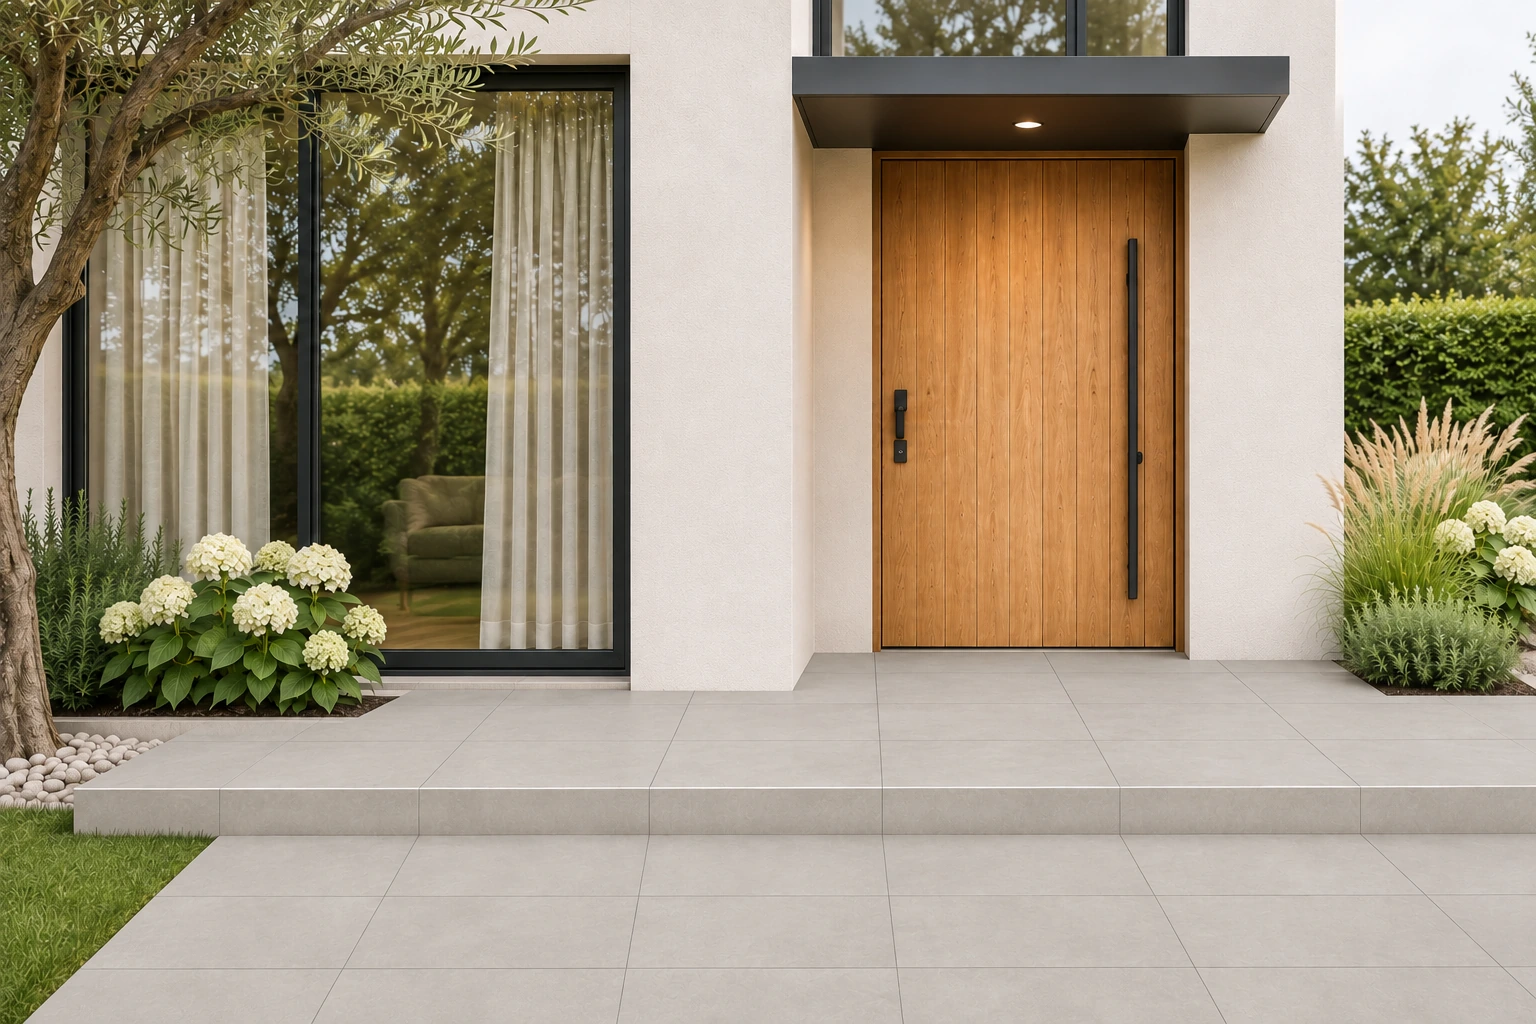
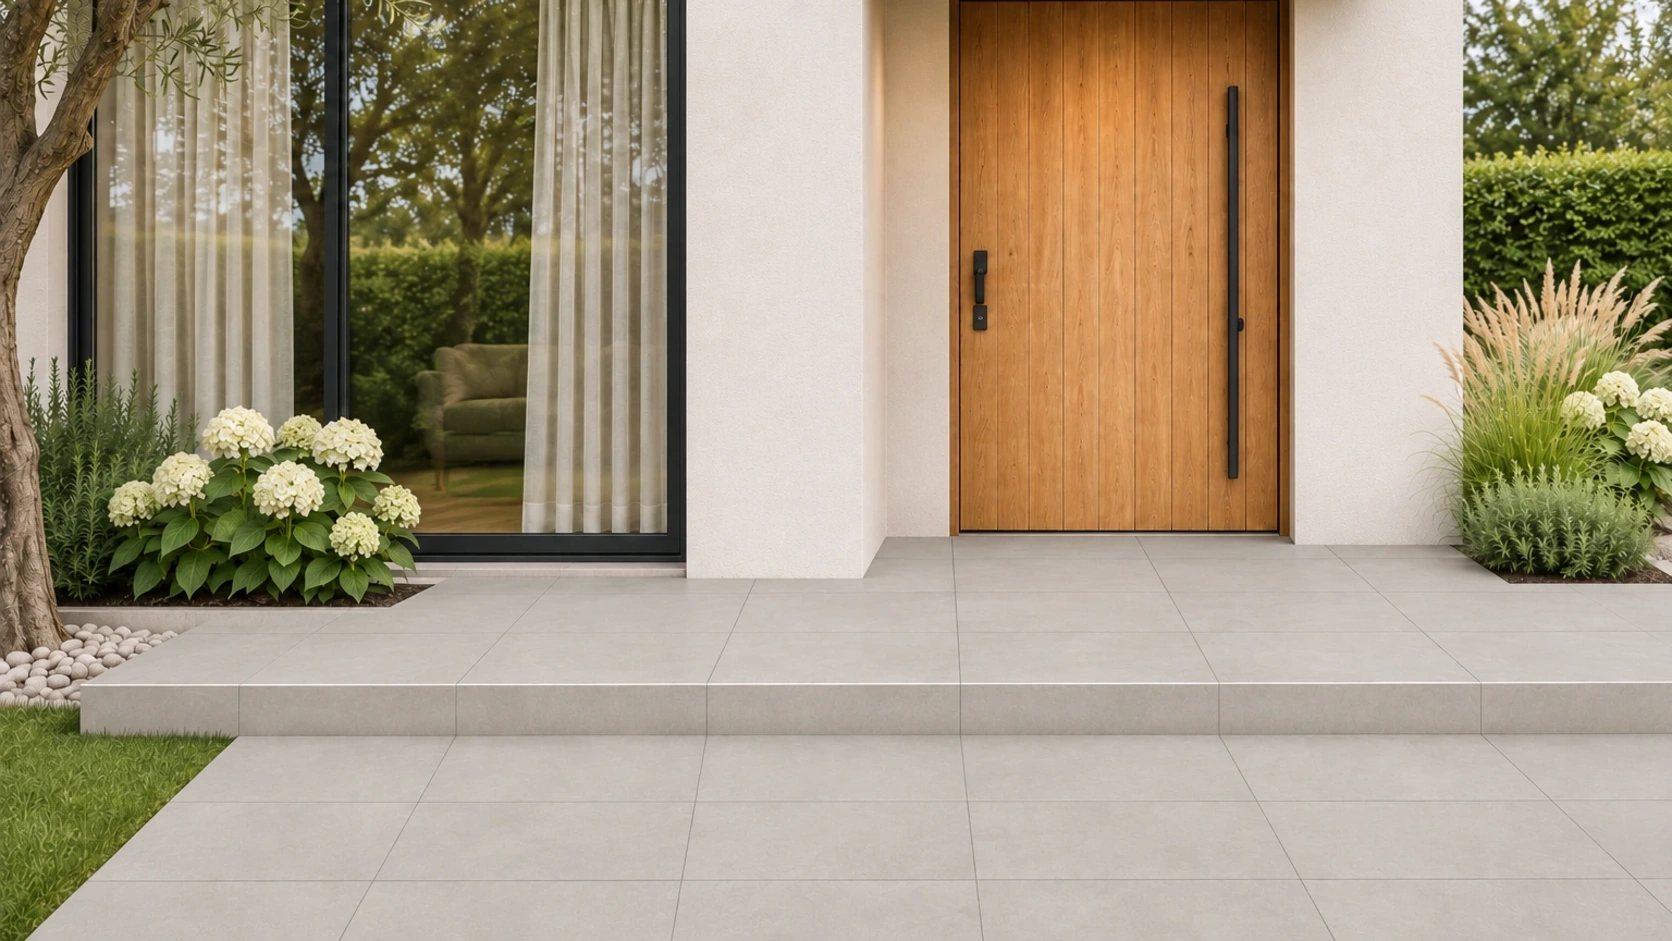
Raumansichten auf gemeinsames Badformat vereinheitlichen

diff --git a/studio/studio.css b/studio/studio.css
@@ -1,11 +1,11 @@
 @font-face{font-family:Archivo;src:url('../schrift/archivo.woff2');font-display:swap}
 *{box-sizing:border-box}[hidden]{display:none!important}:root{font-family:Archivo,Arial,sans-serif;background:#f1f3f2;color:#2a302e;font-synthesis:none}body{margin:0;-webkit-font-smoothing:antialiased}a{color:inherit;text-underline-offset:5px}button,input,select{font:inherit}button,a,input,select{-webkit-tap-highlight-color:transparent}button{cursor:pointer}button:disabled{opacity:.5;cursor:wait}button:focus-visible,a:focus-visible,input:focus-visible,select:focus-visible,summary:focus-visible{outline:2px solid #8c9c82;outline-offset:4px}.skip{position:absolute;left:16px;top:-80px;z-index:10;padding:12px;background:#fffefb}.skip:focus{top:12px}.sr-only{position:absolute;width:1px;height:1px;overflow:hidden;clip:rect(0,0,0,0);white-space:nowrap}
 .studio-header{height:88px;display:flex;align-items:center;gap:32px;padding-inline:max(32px,calc((100% - 1640px)/2));background:#262922;color:#f0f3eb}.brand{flex:none;display:block}.brand img{display:block;width:142px;height:auto}.home-link{font-size:13px;text-decoration:none;border-bottom:1px solid #72836e;padding:12px 0}.studio-title{font-size:10px;letter-spacing:.2em;margin-left:auto;color:#bdc9b6}.basket{display:flex;align-items:center;gap:9px;min-height:44px;font-size:13px;text-decoration:none}.basket>span{display:grid;place-items:center;min-width:24px;height:24px;background:#eff3eb;color:#344c3a;border-radius:50%}.room-nav{display:flex;align-items:center;justify-content:center;gap:8px;min-height:66px;padding:9px 20px;border-bottom:1px solid #d8dfd9;background:#fffefb}.room-nav a{display:flex;align-items:center;justify-content:center;gap:10px;min-height:44px;padding:10px 22px;text-decoration:none;font-size:14px;border-radius:4px;white-space:nowrap}.room-nav a::before{content:'';height:4px;width:4px;border-radius:50%;background:#b1beb4}.room-nav a:hover{background:#edf2ed}.room-nav a[aria-current=page]{color:#f0f3eb;background:#344c3a}.room-nav a[aria-current=page]::before{background:#d9e7d3}
-.workspace{width:min(1704px,100%);height:calc(100svh - 154px);min-height:560px;margin:0 auto;display:grid;grid-template-columns:minmax(0,1fr) 380px}.scene{padding:34px 40px 24px;display:flex;flex-direction:column;min-width:0;min-height:0}.scene-heading{display:flex;justify-content:space-between;align-items:center;gap:20px;margin-bottom:24px}.eyebrow{font-size:10px;letter-spacing:.14em;color:#617066;font-weight:400;margin:0 0 12px}h1,h2{font-weight:400;letter-spacing:-.04em;margin:0}h1{font-size:clamp(26px,2.5vw,40px);line-height:1.15}h2{font-size:25px;line-height:1.2}.quiet{border:1px solid #b8c6b8;background:transparent;padding:12px 14px;min-height:44px;font-size:12px;color:#344c3a;border-radius:4px;white-space:nowrap;flex:none}.quiet:hover{background:#e7eee7}.image-area{flex:1;min-height:0;display:flex;position:relative;align-items:center;justify-content:center}#stage{display:flex;align-items:center;justify-content:center;width:100%;height:100%;min-height:0}#stage img,#stage canvas{display:block;width:auto;height:auto;max-width:100%;max-height:100%;object-fit:contain;border-radius:5px;box-shadow:0 12px 30px #26382e0a}body[data-room=bad] #stage canvas{aspect-ratio:1672/941}#image-status{position:absolute;bottom:10px;left:12px;padding:10px 14px;background:#fffefbf2;color:#344c3a;border-radius:4px;font-size:12px;margin:0;max-width:calc(100% - 24px)}.scene-footer{display:flex;align-items:center;justify-content:space-between;gap:24px;padding:22px 0 15px;border-bottom:1px solid #d8dfd9}.scene-footer p{margin:0;font-size:13px;line-height:1.7}.scene-footer span{font-size:10px;color:#617066;max-width:210px;line-height:1.6}.room-note{font-size:12px;line-height:1.7;color:#617066;margin:14px 0 0;max-width:720px}
+.workspace{width:min(1704px,100%);height:calc(100svh - 154px);min-height:560px;margin:0 auto;display:grid;grid-template-columns:minmax(0,1fr) 380px}.scene{padding:34px 40px 24px;display:grid;grid-template-rows:96px minmax(0,1fr) 112px 60px;min-width:0;min-height:0}.scene-heading{display:flex;justify-content:space-between;align-items:center;gap:20px;margin-bottom:24px}.eyebrow{font-size:10px;letter-spacing:.14em;color:#617066;font-weight:400;margin:0 0 12px}h1,h2{font-weight:400;letter-spacing:-.04em;margin:0}h1{font-size:clamp(26px,2.5vw,40px);line-height:1.15}h2{font-size:25px;line-height:1.2}.quiet{border:1px solid #b8c6b8;background:transparent;padding:12px 14px;min-height:44px;font-size:12px;color:#344c3a;border-radius:4px;white-space:nowrap;flex:none}.quiet:hover{background:#e7eee7}.image-area{flex:1;min-height:0;display:flex;position:relative;align-items:center;justify-content:center}#stage{display:flex;align-items:center;justify-content:center;width:100%;height:100%;min-height:0}#stage img,#stage canvas{display:block;width:auto;height:auto;max-width:100%;max-height:100%;aspect-ratio:1672/941;object-fit:contain;border-radius:5px;box-shadow:0 12px 30px #26382e0a}#image-status{position:absolute;bottom:10px;left:12px;padding:10px 14px;background:#fffefbf2;color:#344c3a;border-radius:4px;font-size:12px;margin:0;max-width:calc(100% - 24px)}.scene-footer{display:flex;align-items:center;justify-content:space-between;gap:24px;padding:22px 0 15px;border-bottom:1px solid #d8dfd9}.scene-footer p{margin:0;font-size:13px;line-height:1.7}.scene-footer span{font-size:10px;color:#617066;max-width:210px;line-height:1.6}.room-note{font-size:12px;line-height:1.7;color:#617066;margin:14px 0 0;max-width:720px}
 .controls{min-width:0;overflow-y:auto;overscroll-behavior:contain;scrollbar-width:thin;padding:30px 26px;background:#fffefb;border-left:1px solid #d8dfd9}.controls-heading{margin-bottom:25px}.controls-heading>p:last-child{font-size:13px;color:#617066;line-height:1.7;margin:12px 0 0}fieldset{margin:0 0 24px;border:0;padding:0;min-width:0}legend{font-size:14px;padding:0;margin-bottom:12px}.materials{display:grid;grid-template-columns:1fr 1fr;gap:10px}.material{position:relative;min-width:0;border:1px solid #d8dfd9;border-radius:5px;padding:7px;background:#fffefb;color:inherit;text-align:left}.material:hover{border-color:#8a9b87}.material[aria-pressed=true]{border:2px solid #344c3a;padding:6px;background:#edf3ec}.material[aria-pressed=true]::after{content:'';position:absolute;top:13px;right:13px;width:12px;height:12px;border:3px solid #f0f3eb;border-radius:50%;background:#344c3a;box-shadow:0 0 0 1px #344c3a}.material img{width:100%;height:58px;object-fit:cover;display:block;border-radius:2px}.material strong{display:block;font-size:13px;font-weight:500;margin:10px 3px 5px;line-height:1.4}.material small{font-size:11px;color:#617066;margin:0 3px 4px;display:block;line-height:1.5}.surface-options,.two{display:grid;grid-template-columns:1fr 1fr;gap:12px}.surface-options{margin-top:12px}.surface-options select{font-size:12px;padding-inline:7px}label{display:grid;gap:8px;font-size:12px;line-height:1.4;margin:12px 0}input,select{width:100%;min-width:0;min-height:44px;border:1px solid #d2dbd2;background:#fffefb;padding:10px;color:#2a302e;border-radius:4px;font-size:14px}.check{display:flex;align-items:center;gap:9px;font-size:14px}.check input{min-height:0;width:18px;height:18px;accent-color:#344c3a;margin:0}.hint,.format-note{font-size:12px;line-height:1.7;color:#617066}.format-note{padding:16px 0;border-block:1px solid #d8dfd9}.sources{margin:22px 0 26px;font-size:13px}.sources summary{cursor:pointer;min-height:44px;align-content:center}.source-product{display:grid;grid-template-columns:54px minmax(0,1fr);gap:12px;margin-top:16px}.source-product img{width:54px;height:54px;object-fit:cover;border-radius:3px}.source-product strong{font-size:13px;font-weight:500;display:block;margin-bottom:6px}.source-product a{font-size:11px;line-height:1.8;display:block}.quantity-row{margin:22px 0}.quantity{font-size:12px;line-height:1.6;color:#344c3a;margin:5px 0}.quantity-row+.quantity-row{border-top:1px solid #d8dfd9;padding-top:16px}input:disabled,select:disabled{opacity:.55}.primary{width:100%;min-height:52px;padding:14px;border:0;border-radius:5px;background:#344c3a;color:#f0f3eb;font-size:14px;line-height:1.6;margin-top:8px}.primary:hover{background:#465f49}#cart-status{font-size:13px;line-height:1.7}.cart-confirmation{display:block;font-size:14px;line-height:1.7;padding:12px 0;color:#344c3a}.studio-links{border-top:1px solid #d8dfd9;padding-top:18px;margin-top:24px;display:flex;flex-direction:column;align-items:flex-start;gap:3px}.studio-links a{min-height:44px;align-content:center;font-size:13px}.noscript{padding:24px}.ui-arrow{margin-left:3px}
 @media(min-width:1920px){.workspace{grid-template-columns:minmax(0,1fr) 400px}.controls{padding:36px 30px}.scene{padding:40px 48px 30px}.material img{height:64px}}
-@media(max-width:1100px){.workspace{grid-template-columns:minmax(0,1fr) 340px}.scene{padding:28px 24px 20px}.scene-heading{align-items:flex-start;flex-direction:column;gap:14px}.controls{padding:26px 22px}.room-nav a{padding-inline:16px}.scene-footer{align-items:flex-start;flex-direction:column;gap:8px}.scene-footer span{max-width:none}}
-@media(max-width:860px){.studio-header{height:78px;padding-inline:20px;gap:20px}.studio-title{display:none}.home-link{margin-left:auto;font-size:12px}.brand img{width:120px}.basket{font-size:12px}.room-nav{justify-content:flex-start;overflow-x:auto;padding:10px 16px;gap:4px;scrollbar-width:thin}.room-nav a{font-size:13px;padding:10px 16px}.workspace{height:auto;min-height:0;display:block}.scene{padding:28px 20px 18px}.scene-heading{flex-direction:row;align-items:center;margin-bottom:20px}h1{font-size:29px}.quiet{font-size:11px;padding:10px}.image-area{display:block}#stage{height:auto;min-height:180px}#stage img,#stage canvas{width:100%;max-height:none}#stage img{height:auto;aspect-ratio:3/2;object-fit:contain;background:#e9edea}body[data-room=bad] #stage img{aspect-ratio:1672/941}.scene-footer{flex-direction:row;gap:16px;align-items:center;padding-top:18px}.scene-footer p{font-size:12px}.scene-footer span{font-size:9px;max-width:180px}.room-note{font-size:12px}.controls{overflow:visible;border-left:0;border-top:1px solid #d8dfd9;padding:28px 24px 40px;max-width:620px;margin:0 auto}.controls-heading h2{font-size:30px}.material img{height:80px}.material strong{font-size:14px}.material small{font-size:12px}.surface-options select,input,select{font-size:16px;min-height:48px}.surface-options{grid-template-columns:1fr 1fr}.controls label{font-size:13px}.primary{min-height:56px}.quantity{font-size:13px}.room-note{max-width:none}}
+@media(max-width:1100px){.workspace{grid-template-columns:minmax(0,1fr) 340px}.scene{padding:28px 24px 20px;grid-template-rows:144px minmax(0,1fr) 128px 78px}.scene-heading{align-items:flex-start;flex-direction:column;gap:14px}.controls{padding:26px 22px}.room-nav a{padding-inline:16px}.scene-footer{align-items:flex-start;flex-direction:column;gap:8px}.scene-footer span{max-width:none}}
+@media(max-width:860px){.studio-header{height:78px;padding-inline:20px;gap:20px}.studio-title{display:none}.home-link{margin-left:auto;font-size:12px}.brand img{width:120px}.basket{font-size:12px}.room-nav{justify-content:flex-start;overflow-x:auto;padding:10px 16px;gap:4px;scrollbar-width:thin}.room-nav a{font-size:13px;padding:10px 16px}.workspace{height:auto;min-height:0;display:block}.scene{padding:28px 20px 18px;display:flex;flex-direction:column}.scene-heading{flex-direction:row;align-items:center;margin-bottom:20px}h1{font-size:29px}.quiet{font-size:11px;padding:10px}.image-area{flex:none;display:block}#stage{height:auto;min-height:180px}#stage img,#stage canvas{width:100%;max-height:none}#stage img{height:auto;aspect-ratio:1672/941;object-fit:contain;background:#e9edea}.scene-footer{flex-direction:row;gap:16px;align-items:center;padding-top:18px}.scene-footer p{font-size:12px}.scene-footer span{font-size:9px;max-width:180px}.room-note{font-size:12px}.controls{overflow:visible;border-left:0;border-top:1px solid #d8dfd9;padding:28px 24px 40px;max-width:620px;margin:0 auto}.controls-heading h2{font-size:30px}.material img{height:80px}.material strong{font-size:14px}.material small{font-size:12px}.surface-options select,input,select{font-size:16px;min-height:48px}.surface-options{grid-template-columns:1fr 1fr}.controls label{font-size:13px}.primary{min-height:56px}.quantity{font-size:13px}.room-note{max-width:none}}
 @media(max-width:480px){.studio-header{height:72px;padding-inline:16px;gap:14px}.brand img{width:104px}.home-link{font-size:11px;max-width:70px;line-height:1.5}.basket{font-size:11px;gap:5px}.basket .ui-arrow{display:none}.scene{padding:24px 16px 16px}.scene-heading{flex-wrap:wrap;row-gap:14px}h1{font-size:27px;max-width:280px}.scene-heading .eyebrow{font-size:9px}.scene-heading .quiet{min-height:44px}.scene-footer{align-items:flex-start;flex-direction:column;gap:8px}.scene-footer span{max-width:none;font-size:10px}.controls{padding-inline:20px}.surface-options{grid-template-columns:1fr;gap:0}.room-note{margin-bottom:0}.room-nav a{padding-inline:14px}.material img{height:66px}}
 @media(prefers-reduced-motion:reduce){*,*::before,*::after{scroll-behavior:auto!important;animation:none!important;transition:none!important}}
 

diff --git a/studio/index.html b/studio/index.html
@@ -1,12 +1,12 @@
 <!doctype html>
-<html lang="de"><head><meta charset="utf-8"><meta name="viewport" content="width=device-width,initial-scale=1"><meta name="robots" content="noindex,nofollow"><meta name="theme-color" content="#262922"><meta name="description" content="Fliesen für Bad, Küche, Wohnbereich, Balkon, Treppenhaus und Außenbereich vergleichen. Fläche und Verschnitt planen und Ihre Auswahl anfragen."><title>Raumstudio · Yabi’s Fliesenwelt</title><link rel="preload" href="../schrift/archivo.woff2" as="font" type="font/woff2" crossorigin><link rel="stylesheet" href="../site-clean.css?v=2"><link rel="stylesheet" href="studio.css?v=3"></head>
+<html lang="de"><head><meta charset="utf-8"><meta name="viewport" content="width=device-width,initial-scale=1"><meta name="robots" content="noindex,nofollow"><meta name="theme-color" content="#262922"><meta name="description" content="Fliesen für Bad, Küche, Wohnbereich, Balkon, Treppenhaus und Außenbereich vergleichen. Fläche und Verschnitt planen und Ihre Auswahl anfragen."><title>Raumstudio · Yabi’s Fliesenwelt</title><link rel="preload" href="../schrift/archivo.woff2" as="font" type="font/woff2" crossorigin><link rel="stylesheet" href="../site-clean.css?v=2"><link rel="stylesheet" href="studio.css?v=4"></head>
 <body class="studio-site">
 <a class="skip" href="#auswahl">Zur Materialauswahl</a>
 <header class="studio-header"><a class="brand" href="../index.html" aria-label="Yabis Fliesenwelt – Startseite"><img src="../assets/marke/yabis-logo-frontal-web.webp" width="512" height="256" alt="Yabi’s Fliesenwelt"></a><a class="home-link" href="../index.html">Zurück zum Haus</a><span class="studio-title">RAUMSTUDIO</span><a class="basket" href="../katalog.html#anfragekorb">Anfragekorb <span id="basket-count">0</span><svg class="ui-arrow" viewBox="0 0 24 24" aria-hidden="true"><path d="M6 18 18 6M6 6h12v12"/></svg></a></header>
 <nav class="room-nav" aria-label="Raum auswählen"><a data-studio-room="bad" href="?raum=bad">Bad</a><a data-studio-room="wohnen" href="?raum=wohnen">Wohnen</a><a data-studio-room="balkon" href="?raum=balkon">Balkon</a><a data-studio-room="kueche" href="?raum=kueche">Küche</a><a data-studio-room="treppe" href="?raum=treppe">Treppenhaus</a><a data-studio-room="eingang" href="?raum=eingang">Außenfliesen</a></nav>
 <main class="workspace">
  <section class="scene" aria-labelledby="room-title"><div class="scene-heading"><div><p class="eyebrow" id="room-kicker">IHR RAUM. IHRE AUSWAHL.</p><h1 id="room-title">Ihr Bad. Ihre Kombination.</h1></div><button class="quiet" type="button" id="save-image" disabled>Bild speichern <svg class="ui-arrow" viewBox="0 0 24 24" aria-hidden="true"><path d="M12 5v14m-6-6 6 6 6-6"/></svg></button></div>
- <div class="image-area"><div id="stage" aria-busy="true"><img id="room-fallback" src="../assets/studio/bad-og-vorschau-glas.webp" width="1440" height="810" alt="Badezimmer mit Waschtisch links, Dusche und Toilette rechts"><canvas id="room-preview" width="1672" height="941" role="img" aria-label="Ihre Fliesenkombination" hidden></canvas></div><p id="image-status" role="status">Raumansicht wird geladen …</p></div>
+ <div class="image-area"><div id="stage" aria-busy="true"><img id="room-fallback" src="../assets/studio/bad-og-vorschau-glas.webp" width="1672" height="941" alt="Badezimmer mit Waschtisch links, Dusche und Toilette rechts"><canvas id="room-preview" width="1672" height="941" role="img" aria-label="Ihre Fliesenkombination" hidden></canvas></div><p id="image-status" role="status">Raumansicht wird geladen …</p></div>
  <div class="scene-footer"><p id="combination" aria-live="polite"></p><span>KI-Gestaltungsvorschau · Muster und Farben können abweichen</span></div><p class="room-note" id="room-note"></p>
  </section>
  <aside class="controls" id="auswahl" aria-label="Fliesen auswählen"><div class="controls-heading"><p class="eyebrow">01 / MATERIAL AUSWÄHLEN</p><h2>Was passt zu Ihnen?</h2><p id="selection-note">Wand und Boden einzeln kombinieren.</p></div><p id="linked-note" class="hint" hidden></p>
@@ -22,4 +22,4 @@
  <div class="studio-links"><a href="../katalog.html">Alle Produkte im Shop</a><a href="tel:+491786787724">Persönlich beraten lassen</a></div><p class="hint">Unverbindliche Anfrage · keine Zahlung in dieser Vorschau</p><p class="hint">Raumansichten KI-generiert · <a href="https://sidetwo.de/" target="_blank" rel="noopener">Webseite von SideTwo</a></p>
  </aside>
 </main><noscript><p class="noscript">Bitte JavaScript aktivieren, um Fliesen zu vergleichen. Sie können alle Produkte auch <a href="../katalog.html">im Shop anfragen</a>.</p></noscript>
-<script src="../js/shop-core.js?v=3"></script><script src="../js/studio-core.js?v=5"></script><script src="../konfigurator-neu/standbild-renderer.js?v=9"></script><script src="../konfigurator-neu/tile-grid.js?v=6"></script><script src="studio.js?v=6"></script></body></html>
+<script src="../js/shop-core.js?v=3"></script><script src="../js/studio-core.js?v=5"></script><script src="../konfigurator-neu/standbild-renderer.js?v=9"></script><script src="../konfigurator-neu/tile-grid.js?v=6"></script><script src="studio.js?v=7"></script></body></html>

diff --git a/studio/studio.js b/studio/studio.js
@@ -3,7 +3,7 @@
  'use strict';
  const $=id=>document.getElementById(id),S=window.YabisShop,C=window.YabisStudio,G=window.YabisTileGrid,R=window.YabisRoomPreview;
  const params=new URLSearchParams(location.search),id=C.roomId(params.get('raum')),room=C.rooms[id];
- const key='yabis-studio-v1-'+id,cache=new Map(),canvas=$('room-preview'),ctx=canvas.getContext('2d');
+ const imageVersion='format-1',key='yabis-studio-v1-'+id,cache=new Map(),canvas=$('room-preview'),ctx=canvas.getContext('2d');
  const active=room.separateWalls?['floor','wall']:[room.surface],motion=matchMedia('(prefers-reduced-motion: reduce)');
  let saved={};try{saved=JSON.parse(localStorage.getItem(key))||{};}catch{}
  const state=C.initial(id,saved,params.get('product'));
@@ -22,11 +22,11 @@
  document.querySelectorAll('[data-studio-room]').forEach(a=>{if(a.dataset.studioRoom===id)a.setAttribute('aria-current','page');});
  if(params.has('product')&&!C.materials.includes(params.get('product'))){$('linked-note').hidden=false;$('linked-note').textContent='Dieser Shopartikel ist noch nicht in der Studio-Auswahl. Hier vergleichen Sie Habitat Perla und Bercy Terra.';}
  $('height-control').hidden=!room.separateWalls;$('height-note').hidden=!room.separateWalls;
- $('room-fallback').src='../'+(id==='bad'?C.bathAssets.poster:C.plate(id,state[room.surface],state.cabinetTone));
+ $('room-fallback').src='../'+(id==='bad'?C.bathAssets.poster:C.plate(id,state[room.surface],state.cabinetTone))+'?v='+imageVersion;
  $('room-fallback').alt=room.name+' – realistische Gestaltungsvorschau';
  function snapshot(){const data={...state};for(const surface of active){for(const field of ['Area','Waste'])data[surface+field]=$(`${surface}-${field.toLowerCase()}`).value;data[surface+'Included']=$('include-'+surface).checked;}return data;}
  function save(){try{localStorage.setItem(key,JSON.stringify(snapshot()));}catch{}}
- function load(src){if(!cache.has(src))cache.set(src,new Promise((resolve,reject)=>{const image=new Image();image.decoding='async';image.onload=()=>{if(id==='bad'&&(image.naturalWidth!==R.width||image.naturalHeight!==R.height)){cache.delete(src);reject(Error('Diese Badansicht passt nicht zur Raumvorlage. Bitte ein Bild im freigegebenen Format verwenden.'));return;}resolve(image);};image.onerror=()=>{cache.delete(src);reject(Error('Die Materialansicht konnte nicht geladen werden. Bitte erneut auswählen.'));};image.src=src;}));return cache.get(src);}
+ function load(src){if(!cache.has(src))cache.set(src,new Promise((resolve,reject)=>{const image=new Image();image.decoding='async';image.onload=()=>{if(image.naturalWidth!==R.width||image.naturalHeight!==R.height){cache.delete(src);reject(Error('Diese Raumansicht passt nicht zur Raumvorlage. Bitte ein Bild im freigegebenen Format verwenden.'));return;}resolve(image);};image.onerror=()=>{cache.delete(src);reject(Error('Die Materialansicht konnte nicht geladen werden. Bitte erneut auswählen.'));};image.src=src+'?v='+imageVersion;}));return cache.get(src);}
  const heightName=()=>state.wallHeight==='full'?'raumhoch':'1,20 m · Dusche raumhoch';
  function describe(){return active.map(surface=>`${room.separateWalls?(surface==='floor'?'Boden':'Wand'):room.surfaceName}: ${S.find(state[surface]).name}${room.separateWalls?' · '+state[surface+'Format'].join(' × ')+' cm · '+G.grouts[state[surface+'Grout']].label+(surface==='wall'?' · '+heightName():''):''}`).join(' / ')+(id==='kueche'?' · Fronten: '+(state.cabinetTone==='dark'?'Anthrazit':'Hell'):'');}
  async function draw(){
